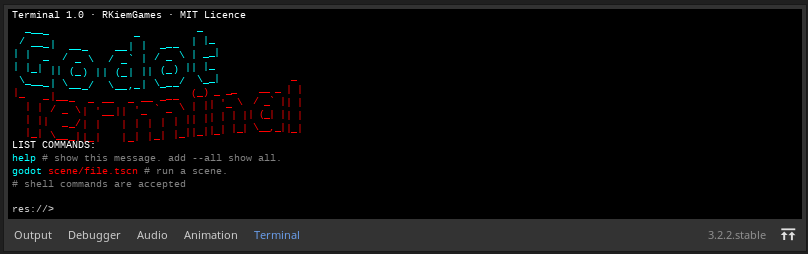
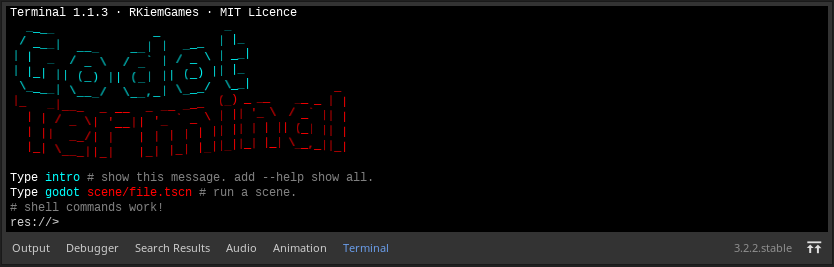
changes README and preview

diff --git a/README.md b/README.md
@@ -1,15 +1,15 @@
-# Godot Terminal for Linux
+# Godot Terminal
 
-This is a real GNU/Linux terminal for executing commands
+This is a real GNU/Linux | OSX | Windows terminal for executing commands
 and applications from command line:
-`ls`, `cd`, piped commands, and others are supported.
+`ls`, `dir`, `cd`, piped commands, and others are supported.
 
-* Can I to execute sudo? Yes, you can! We have an askpass shell script.
+* Can you run sudo? Yes, you can! we have provided a secure password dialog.
 * Personalize foreground and background colors.
 * `godot` command is a shortcut command to Godot command
   line tool, it can execute scenes and more!
 
-Type help --all for to show more details.
+Type intro --all for to show more details.
 
 # Screenshots
 
